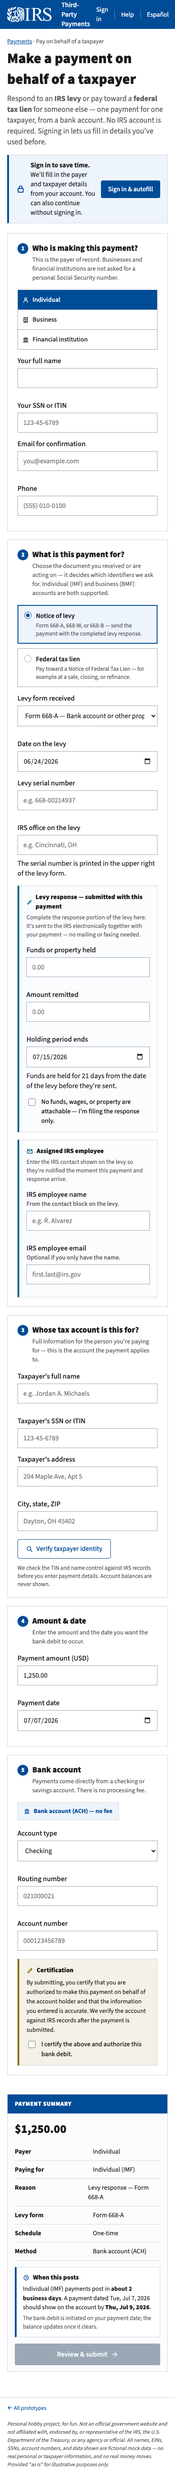
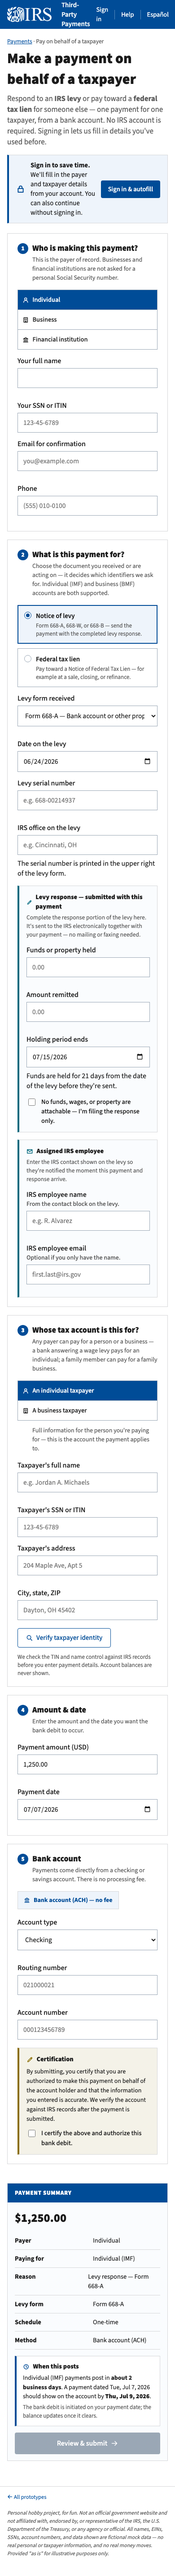
fix: require bank account to submit; explicit individual/business taxpayer choice (#19)
- Submit is gated on routing (9 digits) + account number; tooltip names the
  missing step; summary Method row shows the account last-4; sign-in
  autofill fills bank fields. A 668 levy response filed with no attachable
  funds sends no payment, so it skips the bank requirement and the receipt
  reads $0.00 — levy response only
- Step 3 gains an individual/business taxpayer toggle: any payer can pay
  for either (bank answering a wage levy pays for an individual). Payer
  choice only seeds the default; the redundant institution-only 'Account
  levied' select is removed
- .shots/19/mvp-* regenerated + mvp-bank-for-individual added

Changed region(s): [[0.0308, 0.0, 0.9538, 0.9984], [0.8, 0.6864, 0.8615, 0.7176], [0.7385, 0.7176, 0.7692, 0.7488]]

diff --git a/third-party-pay/index.html b/third-party-pay/index.html
@@ -250,7 +250,12 @@
         <!-- 3. Whose account -->
         <div class="card">
           <h2><span class="n">3</span> Whose tax account is this for?</h2>
-          <p class="chint" id="tpHint">Full information for the person or business you're paying for — this is the account the payment applies to.</p>
+          <p class="chint">Any payer can pay for a person or a business — a bank answering a wage levy pays for an individual; a family member can pay for a family business.</p>
+          <div class="segwrap" id="forTypeSeg">
+            <button data-for="imf" class="on"><span class="ic" aria-hidden="true"><svg viewBox="0 0 16 16" fill="none" stroke="currentColor" stroke-width="1.6" stroke-linecap="round" stroke-linejoin="round"><circle cx="8" cy="5.2" r="2.7"/><path d="M3 13.5a5 5 0 0 1 10 0"/></svg></span> An individual taxpayer</button>
+            <button data-for="bmf"><span class="ic" aria-hidden="true"><svg viewBox="0 0 16 16" fill="none" stroke="currentColor" stroke-width="1.6" stroke-linecap="round" stroke-linejoin="round"><rect x="3.5" y="2.5" width="9" height="11"/><path d="M6 5.5h1M9 5.5h1M6 8h1M9 8h1M7 13.5v-2.5h2v2.5"/></svg></span> A business taxpayer</button>
+          </div>
+          <p class="chint" id="tpHint" style="margin-top:12px">Full information for the person or business you're paying for — this is the account the payment applies to.</p>
           <div id="taxpayerFields"></div>
           <div class="vrow" id="verifyRow">
             <button class="vbtn" id="verifyBtn" type="button"><span class="ic" aria-hidden="true"><svg viewBox="0 0 16 16" fill="none" stroke="currentColor" stroke-width="1.6" stroke-linecap="round" stroke-linejoin="round"><circle cx="7" cy="7" r="4.5"/><path d="M10.5 10.5 14 14"/></svg></span> Verify taxpayer identity</button>
@@ -277,8 +282,8 @@
           <div class="achbadge"><span class="ic" aria-hidden="true"><svg viewBox="0 0 16 16" fill="none" stroke="currentColor" stroke-width="1.6" stroke-linecap="round" stroke-linejoin="round"><path d="M2.5 6 8 2.5 13.5 6z"/><path d="M4 8.5v3M6.7 8.5v3M9.3 8.5v3M12 8.5v3M2.5 13.5h11"/></svg></span> Bank account (ACH) — no fee</div>
           <div class="grid3" style="margin-top:14px">
             <div class="field"><label for="acctType">Account type</label><select id="acctType"><option>Checking</option><option>Savings</option></select></div>
-            <div class="field"><label for="routing">Routing number</label><input id="routing" placeholder="021000021"></div>
-            <div class="field"><label for="acct">Account number</label><input id="acct" placeholder="000123456789"></div>
+            <div class="field"><label for="routing">Routing number</label><input id="routing" placeholder="021000021" data-fill="021000021"></div>
+            <div class="field"><label for="acct">Account number</label><input id="acct" placeholder="000123456789" data-fill="000123456789"></div>
           </div>
 
           <div class="attest" id="attestBox">
@@ -299,7 +304,7 @@
           <div class="readrow"><span class="k">Reason</span><span class="v" id="sReason">—</span></div>
           <div class="readrow" id="sLevyRow" style="display:none"><span class="k">Levy form</span><span class="v" id="sLevy">—</span></div>
           <div class="readrow" id="sSchedRow" style="display:none"><span class="k">Schedule</span><span class="v" id="sSched">One-time</span></div>
-          <div class="readrow"><span class="k">Method</span><span class="v">Bank account (ACH)</span></div>
+          <div class="readrow"><span class="k">Method</span><span class="v" id="sMethod">Bank account (ACH)</span></div>
           <div class="forecast">
             <div class="fh"><span class="fi ic" aria-hidden="true"><svg viewBox="0 0 16 16" fill="none" stroke="currentColor" stroke-width="1.6" stroke-linecap="round" stroke-linejoin="round"><circle cx="8" cy="8" r="5.5"/><path d="M8 4.8V8l2.3 1.6"/></svg></span> When this posts</div>
             <div id="fBody"></div>
@@ -420,8 +425,6 @@ function fillReasonFields(){
   }else{
     const formOpts=Object.entries(LEVY_FORMS).map(([k,v])=>`<option value="${k}"${k===state.levyForm?" selected":""}>${v.label}</option>`).join("");
     const isW=state.levyForm==="668-W";
-    const acctSel = state.payer==="institution" ? `
-      <div class="field"><label for="levyAcct">Account levied</label><select id="levyAcct"><option>Individual account</option><option>Business account</option></select><span class="hint">Levies on both individual and business accounts can be answered here.</span></div>` : "";
     $("reasonFields").innerHTML=`
       <div class="grid2">
         <div class="field"><label for="levyForm">Levy form received</label><select id="levyForm">${formOpts}</select></div>
@@ -429,7 +432,7 @@ function fillReasonFields(){
       </div>
       <div class="grid2">
         <div class="field"><label for="levySerial">Levy serial number</label><input id="levySerial" placeholder="e.g. 668-00214937" data-fill="668-00214937"></div>
-        ${acctSel || `<div class="field"><label for="levyOffice">IRS office on the levy</label><input id="levyOffice" placeholder="e.g. Cincinnati, OH" data-fill="Cincinnati, OH"></div>`}
+        <div class="field"><label for="levyOffice">IRS office on the levy</label><input id="levyOffice" placeholder="e.g. Cincinnati, OH" data-fill="Cincinnati, OH"></div>
       </div>
       <p class="field hint" style="margin-top:-6px">The serial number is printed in the upper right of the levy form.</p>
 
@@ -631,8 +634,13 @@ function updateSummary(){
     const post=addBusinessDays(base,2);
     $("fBody").innerHTML=`Individual (IMF) payments post in <b>about 2 business days</b>. A payment dated ${fmtDate(base)} should show on the account by <span class="fdate">${fmtDate(post)}</span>.<div class="fnote">The bank debit is initiated on your payment date; the balance updates once it clears.</div>`;
   }
-  $("submitBtn").disabled=!$("attestCheck").checked || !state.verified;
-  $("submitBtn").title=state.verified?"":"Verify the taxpayer's identity in step 3 first";
+  const noFunds=$("lvNoFunds"), responseOnly=state.collKind==="levy" && !!(noFunds&&noFunds.checked);
+  const routing=($("routing").value||"").replace(/\D/g,""), acct=($("acct").value||"").replace(/\D/g,"");
+  const bankOk=responseOnly || (routing.length===9 && acct.length>=4);
+  $("sMethod").textContent=responseOnly ? "Levy response only — no payment" : ("Bank account (ACH)"+(acct.length>=4?" ····"+acct.slice(-4):""));
+  $("submitBtn").disabled=!$("attestCheck").checked || !state.verified || !bankOk;
+  $("submitBtn").title=!state.verified ? "Verify the taxpayer's identity in step 3 first"
+    : (!bankOk ? "Enter the bank routing and account numbers in step 5 to process the payment" : "");
 }
 
 /* ---------- autofill (sign-in) ---------- */
@@ -653,12 +661,15 @@ function signIn(){
   applyAutofill();
 }
 
-/* ---------- infer forType from payer default (individual→imf, business/inst→bmf but keep editable via reason type) ---------- */
-/* forType tracks the account being paid, driven by the reason list. We map:
-   individual payer defaults to IMF account; business/institution default to BMF, but the
-   reason dropdown covers both so we key forType off payer choice for the sensible default. */
+/* forType = whose account is being paid. The payer choice only seeds a sensible
+   default (individual payer→IMF, business/institution→BMF); the step-3 toggle
+   owns it — any payer can pay for an individual or a business taxpayer. */
 function syncForType(){
   state.forType = (state.payer==="individual") ? "imf" : "bmf";
+  paintForTypeSeg();
+}
+function paintForTypeSeg(){
+  document.querySelectorAll("#forTypeSeg button").forEach(b=>b.classList.toggle("on",b.dataset.for===state.forType));
 }
 
 /* ---------- receipt ---------- */
@@ -674,8 +685,14 @@ function buildReceipt(){
   $("rReason").textContent=currentReason()||"—";
   const base=$("date").value?new Date($("date").value+"T12:00:00"):new Date();
   $("rDate").textContent=fmtDate(base);
-  const at=$("acctType").value, an=($("acct").value||"000123456789").slice(-4);
-  $("rBank").textContent=`${at} \u2022\u2022\u2022\u2022${an}`;
+  const noFunds=$("lvNoFunds"), responseOnly=state.collKind==="levy" && !!(noFunds&&noFunds.checked);
+  if(responseOnly){
+    $("rAmt").textContent="$0.00 — levy response only";
+    $("rBank").textContent="No bank debit — no attachable funds reported";
+  }else{
+    const at=$("acctType").value, an=($("acct").value||"000123456789").slice(-4);
+    $("rBank").textContent=`${at} \u2022\u2022\u2022\u2022${an}`;
+  }
   $("rConf").textContent="TPP-2026-"+String(Math.floor(1000+Math.random()*9000))+"-"+String(Math.floor(100+Math.random()*900));
 
   /* levy / lien rows on the receipt */
@@ -730,9 +747,16 @@ $("reasonMode").addEventListener("click",e=>{
   c.classList.add("on");state.collKind=c.dataset.kind;
   fillReasonFields();fillTaxpayerFields();
 });
-["amount","date"].forEach(id=>$(id).addEventListener("input",updateSummary));
+["amount","date","routing","acct"].forEach(id=>$(id).addEventListener("input",updateSummary));
+document.getElementById("reasonFields").addEventListener("change",e=>{ if(e.target && e.target.id==="lvNoFunds") updateSummary(); });
 $("date").addEventListener("change",updateSummary);
 $("attestCheck").addEventListener("change",updateSummary);
+$("forTypeSeg").addEventListener("click",e=>{
+  const b=e.target.closest("button");if(!b)return;
+  state.forType=b.dataset.for;
+  paintForTypeSeg();
+  fillTaxpayerFields();updateSummary();
+});
 $("verifyBtn").addEventListener("click",verifyTaxpayer);
 $("taxpayerFields").addEventListener("input",()=>{ if(state.verified) setVerified(false); });
 $("signInBtn").addEventListener("click",signIn);

diff --git a/docs/ux-log.md b/docs/ux-log.md
@@ -162,3 +162,20 @@ history keeps them).
   later rather than shipping in it.
 - `.shots/19/mvp-*` generated (levy, lien, lien receipt, dark, mobile at
   390px — no horizontal scroll).
+
+## 2026-08-25 — bank details required + cross-type payer/taxpayer (#19)
+
+- **Bank account is now required to submit** — routing (9 digits) + account
+  number gate the submit button, with the tooltip saying what's missing; the
+  summary's Method row shows the account last-4 once entered. Sign-in
+  autofill fills the bank fields too. Exception: a 668 levy response filed
+  with "no attachable funds" sends no payment, so no bank details are
+  required and the receipt says so ($0.00 — levy response only).
+- **Any payer can pay for an individual or a business taxpayer.** Step 3 now
+  has an explicit individual/business toggle instead of inferring the
+  taxpayer type from the payer (a bank answering a wage levy pays for an
+  individual). The payer choice only seeds the default; the toggle drives
+  the taxpayer fields, summary, forecast, and receipt. The redundant
+  institution-only "Account levied" select is gone.
+- `.shots/19/mvp-*` regenerated; added `mvp-bank-for-individual` showing the
+  cross-type case.
